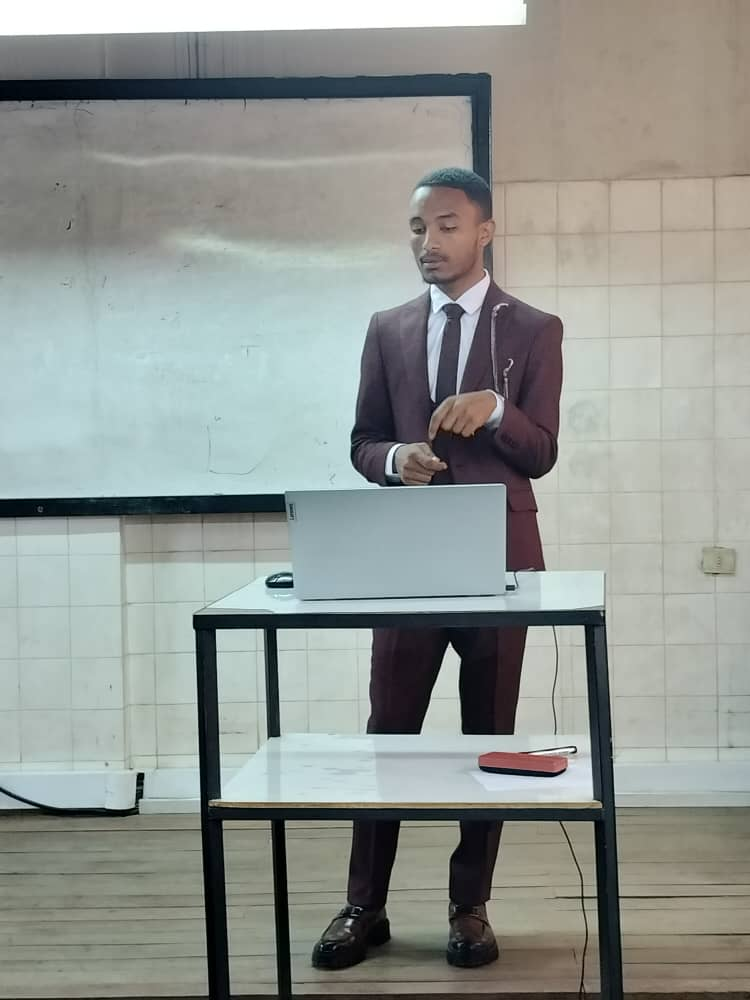
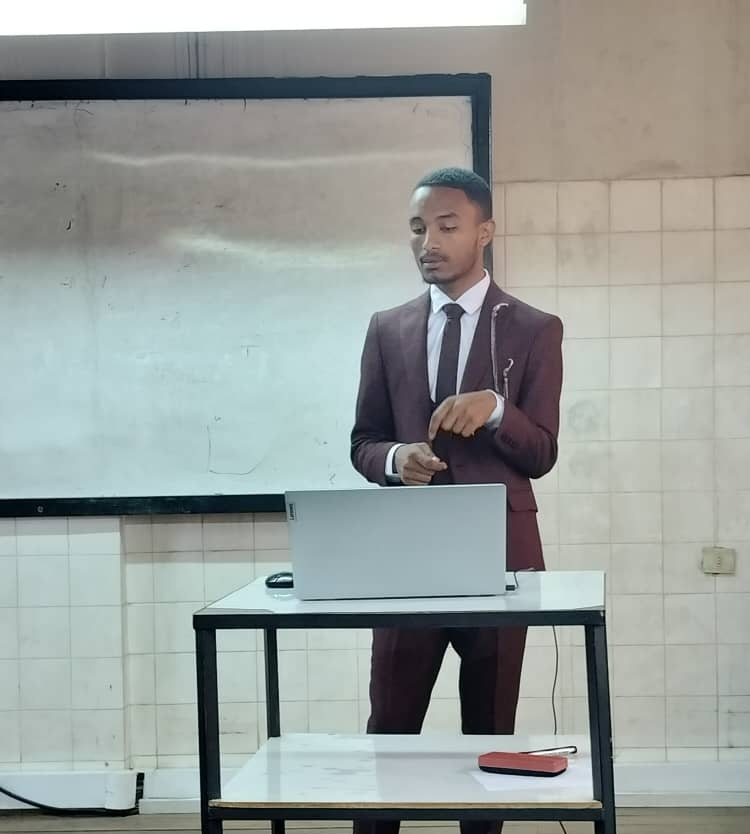
Updtaes on some pages

diff --git a/src/components/Recommendations.tsx b/src/components/Recommendations.tsx
@@ -1,5 +1,5 @@
 import { useState, useEffect } from 'react';
-import { ChevronLeft, ChevronRight, Pause, Play } from 'lucide-react';
+import { ChevronLeft, ChevronRight } from 'lucide-react';
 import Tilye from '../assets/images/ProfTileye4.jpg';
 import Ashenafi from '../assets/images/MrAshenafi1.jpg';
 import Beimnet from '../assets/images/MrsBeimnet.jpeg';
@@ -8,7 +8,7 @@ import Hermela from '../assets/images/Hermella.jpg';
 
 const Recommendations = () => {
   const [currentSlide, setCurrentSlide] = useState(0);
-  const [isPaused, setIsPaused] = useState(false); // ✅ Added pause state
+  // const [isPaused, setIsPaused] = useState(false);
 
   const recommendations = [
     {
@@ -59,14 +59,14 @@ const Recommendations = () => {
   ];
 
   useEffect(() => {
-    if (isPaused) return; // ✅ Stop auto-slide when paused
+    // if (isPaused) return;
 
     const interval = setInterval(() => {
       setCurrentSlide((prev) => (prev + 1) % recommendations.length);
     }, 6000);
 
     return () => clearInterval(interval);
-  }, [recommendations.length, isPaused]);
+  }, [recommendations.length]);
 
   const nextSlide = () => {
     setCurrentSlide((prev) => (prev + 1) % recommendations.length);
@@ -80,7 +80,7 @@ const Recommendations = () => {
     setCurrentSlide(index);
   };
 
-  const togglePause = () => setIsPaused((prev) => !prev); // ✅ Toggle play/pause
+  // const togglePause = () => setIsPaused((prev) => !prev);
 
   return (
     <div className="max-w-7xl mx-auto px-4 sm:px-6 lg:px-8">
@@ -106,14 +106,36 @@ const Recommendations = () => {
                 <div className="bg-white/5 backdrop-blur-lg rounded-2xl p-8 md:p-12 border border-white/10 mx-4">
                   <div className="grid md:grid-cols-3 gap-8 items-center">
                     {/* Recommender Info */}
-                    <div className="text-center md:text-left">
-                      <div className="relative mb-6">
-                        <img
-                          src={rec.image}
-                          alt={rec.name}
-                          className="w-32 h-32 rounded-full mx-auto md:mx-0 object-cover border-4 border-gradient-to-r from-blue-500 to-purple-600 shadow-2xl"
-                        />
-                        <div className="absolute inset-0 bg-gradient-to-r from-blue-500/20 to-purple-600/20 rounded-full animate-pulse"></div>
+                    <div className="text-center md:text-left relative">
+                      <div className="relative mb-6 flex items-center md:justify-start">
+                        {/* Circular Image */}
+                        <div className="relative z-10">
+                          <img
+                            src={rec.image}
+                            alt={rec.name}
+                            className="w-32 h-32 rounded-full object-cover border-4 border-gradient-to-r from-blue-500 to-purple-600 shadow-2xl"
+                          />
+                          <div className="absolute inset-0 bg-gradient-to-r from-blue-500/20 to-purple-600/20 rounded-full animate-pulse"></div>
+                        </div>
+
+                        {/* Cylindrical Horizontal Shadow Bar */}
+                        <div
+                          className="ml-[-2px] h-32 flex-1 relative rounded-full"
+                          style={{
+                            background: 'linear-gradient(to right, rgba(59, 130, 246, 0.3), rgba(139, 92, 246, 0.3))',
+                            boxShadow: '-100px 0 0 rgba(59, 130, 246, 0.2), 0 0 20px rgba(139, 92, 246, 0.2)',
+                          }}
+                        >
+                          {/* Fan-like highlights */}
+                          <div className="absolute top-1/2 left-0 w-full h-0.5 flex justify-between opacity-20 -translate-y-1/2">
+                            {[...Array(5)].map((_, i) => (
+                              <div
+                                key={i}
+                                className="w-1 h-4 bg-white/30 rounded-sm transform rotate-12"
+                              />
+                            ))}
+                          </div>
+                        </div>
                       </div>
 
                       <h3 className="text-2xl font-bold text-white mb-2">{rec.name}</h3>
@@ -151,39 +173,17 @@ const Recommendations = () => {
         {/* Navigation Arrows */}
         <button
           onClick={prevSlide}
-          className="absolute left-4 top-1/2 transform -translate-y-1/2 z-10 p-3 rounded-full bg-white/10 backdrop-blur-sm text-white hover:bg-white/20 transition-all duration-300"
+          className="absolute left-4 top-1/2 transform -translate-y-1/2 z-10 p-3 rounded-full bg-blue-400 backdrop-blur-sm text-white hover:bg-white/20 transition-all duration-300"
         >
           <ChevronLeft size={24} />
         </button>
         <button
           onClick={nextSlide}
-          className="absolute right-4 top-1/2 transform -translate-y-1/2 z-10 p-3 rounded-full bg-white/10 backdrop-blur-sm text-white hover:bg-white/20 transition-all duration-300"
+          className="absolute right-4 top-1/2 transform -translate-y-1/2 z-10 p-3 rounded-full bg-blue-400 backdrop-blur-sm text-white hover:bg-white/20 transition-all duration-300"
         >
           <ChevronRight size={24} />
         </button>
 
-        {/* ✅ Pause/Play Button */}
-        <button
-          onClick={togglePause}
-          className="absolute right-1/2 bottom-[-3rem] transform translate-x-1/2 z-10 p-3 rounded-full bg-blue-600 text-white hover:bg-blue-700 transition-all duration-300"
-        >
-          {isPaused ? <Play size={20} /> : <Pause size={20} />}
-        </button>
-
-        {/* Slide Indicators */}
-        <div className="flex justify-center mt-8 space-x-2">
-          {recommendations.map((_, index) => (
-            <button
-              key={index}
-              onClick={() => goToSlide(index)}
-              className={`w-3 h-3 rounded-full transition-all duration-300 ${
-                index === currentSlide
-                  ? 'bg-gradient-to-r from-blue-500 to-purple-600 scale-125'
-                  : 'bg-white/30 hover:bg-white/50'
-              }`}
-            />
-          ))}
-        </div>
       </div>
 
       {/* Additional Testimonials Preview */}

diff --git a/src/components/Portfolio.tsx b/src/components/Portfolio.tsx
@@ -1,4 +1,4 @@
-import { useState } from 'react';
+import { useState, useEffect, useRef } from 'react';
 import Netflix from '../assets/images/Netflix.png';
 import Amazon from '../assets/images/amazon.jpg';
 import Evangadi from '../assets/images/Evangadi-forum.png';
@@ -6,9 +6,12 @@ import Employee from '../assets/images/Employee.png';
 import Expense from '../assets/images/Expense-tracker.png';
 import Landing from '../assets/images/nextjs.png';
 
-
 const Portfolio = () => {
   const [activeFilter, setActiveFilter] = useState('all');
+  const [activeCard, setActiveCard] = useState<number | null>(null);
+
+  // ✅ Typed ref fix: tell TS what kind of elements the array will hold
+  const projectRefs = useRef<(HTMLDivElement | null)[]>([]);
 
   const projects = [
     {
@@ -78,6 +81,41 @@ const Portfolio = () => {
     ? projects
     : projects.filter(project => project.category === activeFilter);
 
+  // Ensure projectRefs.current length matches filteredProjects length
+  useEffect(() => {
+    projectRefs.current = projectRefs.current.slice(0, filteredProjects.length);
+  }, [filteredProjects]);
+
+  // Scroll detection for mobile: find the card closest to vertical center and mark it active
+  useEffect(() => {
+    const handleScroll = () => {
+      if (window.innerWidth > 768) return; // only apply on mobile sizes
+      let closestIndex: number | null = null;
+      let closestOffset = Infinity;
+
+      projectRefs.current.forEach((el, idx) => {
+        if (!el) return;
+        const rect = el.getBoundingClientRect();
+        const offset = Math.abs(rect.top + rect.height / 2 - window.innerHeight / 2);
+        if (offset < closestOffset) {
+          closestOffset = offset;
+          closestIndex = idx;
+        }
+      });
+
+      setActiveCard(closestIndex);
+    };
+
+    handleScroll();
+    window.addEventListener('scroll', handleScroll, { passive: true });
+    window.addEventListener('resize', handleScroll);
+
+    return () => {
+      window.removeEventListener('scroll', handleScroll);
+      window.removeEventListener('resize', handleScroll);
+    };
+  }, [filteredProjects]);
+
   return (
     <div className="max-w-7xl mx-auto px-4 sm:px-6 lg:px-8">
       <div className="text-center mb-16">
@@ -111,12 +149,12 @@ const Portfolio = () => {
         {filteredProjects.map((project, index) => (
           <div
             key={index}
+            ref={(el) => { projectRefs.current[index] = el; }}
             className="group bg-white/5 backdrop-blur-lg rounded-2xl overflow-hidden border border-white/10 hover:bg-white/10 transition-all duration-500 transform hover:scale-105 hover:shadow-2xl"
             style={{
               animationDelay: `${index * 100}ms`
             }}
           >
-            {/* Project Image */}
             <div className="relative overflow-hidden">
               <img
                 src={project.image}
@@ -125,18 +163,20 @@ const Portfolio = () => {
               />
               <div className="absolute inset-0 bg-gradient-to-t from-black/50 to-transparent opacity-0 group-hover:opacity-100 transition-opacity duration-300"></div>
 
-              {/* Project Links Overlay */}
-              <div className="absolute inset-0 flex items-center justify-center opacity-0 group-hover:opacity-100 transition-opacity duration-300">
+              <div className={`absolute inset-0 flex items-center justify-center transition-opacity duration-300
+                ${activeCard === index ? 'opacity-100' : 'opacity-0 group-hover:opacity-100'}`}>
                 <div className="flex space-x-4">
                   <a
                     href={project.demoUrl}
-                    className="px-4 py-2 bg-blue-500 text-white rounded-lg hover:bg-blue-600 transition-colors duration-300"
+                    className={`px-4 py-2 bg-blue-500 text-white rounded-lg transition-colors duration-300
+                      ${activeCard === index ? 'bg-blue-600' : 'hover:bg-blue-600'}`}
                   >
                     Demo
                   </a>
                   <a
                     href={project.codeUrl}
-                    className="px-4 py-2 bg-purple-500 text-white rounded-lg hover:bg-purple-600 transition-colors duration-300"
+                    className={`px-4 py-2 bg-purple-500 text-white rounded-lg transition-colors duration-300
+                      ${activeCard === index ? 'bg-purple-600' : 'hover:bg-purple-600'}`}
                   >
                     Code
                   </a>
@@ -144,7 +184,6 @@ const Portfolio = () => {
               </div>
             </div>
 
-            {/* Project Content */}
             <div className="p-6">
               <h3 className="text-xl font-bold text-white mb-3 group-hover:text-transparent group-hover:bg-gradient-to-r group-hover:bg-clip-text group-hover:from-blue-400 group-hover:to-purple-600 transition-all duration-300">
                 {project.title}
@@ -154,7 +193,6 @@ const Portfolio = () => {
                 {project.description}
               </p>
 
-              {/* Technologies */}
               <div className="flex flex-wrap gap-2">
                 {project.technologies.map((tech, techIndex) => (
                   <span
@@ -170,7 +208,6 @@ const Portfolio = () => {
         ))}
       </div>
 
-      {/* GitHub Profile Link */}
       <div className="text-center mt-16">
         <div className="bg-gradient-to-r from-blue-500/20 to-purple-600/20 backdrop-blur-lg rounded-2xl p-8 border border-white/10">
           <h3 className="text-3xl font-bold text-white mb-4">Explore More Projects</h3>

diff --git a/src/components/About.css b/src/components/About.css
@@ -1,15 +1,15 @@
 .animated-luminous::before {
   content: '';
   position: absolute;
-  inset: -60%;
+  inset: -200%;
   background: conic-gradient(
     from 0deg,
-    rgba(0, 255, 255, 0.8),
-    rgba(0, 128, 255, 0.9),
-    rgba(0, 0, 128, 0.6),
-    rgba(255, 255, 255, 0.5),
-    rgba(0, 255, 255, 0.9),
-    rgba(0, 128, 255, 0.7)
+    rgba(0, 255, 0, 0.8),      /* Bright Green */
+    rgba(255, 255, 0, 0.9),    /* Vibrant Yellow */
+    rgba(0, 128, 255, 0.9),    /* Sky Blue */
+    rgba(0, 255, 255, 0.1),    /* Cyan Touch */
+    rgba(0, 255, 0, 0.9),      /* Green again for continuity */
+    rgba(0, 128, 255, 0.7)     /* Blue fade end */
   );
   filter: blur(60px) saturate(2.5) brightness(2);
   mix-blend-mode: screen;
@@ -25,9 +25,10 @@
   inset: -55%;
   background: radial-gradient(
     circle,
-    rgba(0, 255, 255, 0.3) 0%,
-    rgba(0, 100, 255, 0.15) 35%,
-    transparent 70%
+    rgba(0, 255, 0, 0.3) 0%,        /* Soft green center glow */
+    rgba(255, 255, 0, 0.2) 35%,     /* Yellow mid glow */
+    rgba(0, 128, 255, 0.15) 55%,    /* Blue edge fade */
+    transparent 75%
   );
   filter: blur(80px);
   border-radius: 50%;
@@ -75,5 +76,23 @@
   100% {
     transform: rotate(-360deg) scale(1);
     opacity: 0.8;
+  }
+}
+
+@keyframes floaty {
+  0% {
+    transform: translateY(0px) scale(1);
+  }
+  25% {
+    transform: translateY(-6px) scale(1.01);
+  }
+  50% {
+    transform: translateY(3px) scale(0.99);
+  }
+  75% {
+    transform: translateY(-4px) scale(1.02);
+  }
+  100% {
+    transform: translateY(0px) scale(1);
   }
 }

diff --git a/src/App.tsx b/src/App.tsx
@@ -17,7 +17,7 @@ const Index = () => {
 
   useEffect(() => {
     const handleScroll = () => {
-      const sections = ['home', 'about', 'resume', 'skills', 'services', 'portfolio', 'blogs', 'recommendations', 'contact'];
+      const sections = ['home', 'about', 'resume', 'research', 'services', 'portfolio', 'blogs', 'recommendations', 'gallery','contact'];
       const scrollPosition = window.scrollY + 100;
 
       for (const section of sections) {

diff --git a/src/components/Navigation.tsx b/src/components/Navigation.tsx
@@ -18,7 +18,9 @@ const Navigation: React.FC<NavigationProps> = ({ activeSection }) => {
     { id: 'portfolio', label: 'Portfolio' },
     { id: 'blogs', label: 'Blogs' },
     { id: 'recommendations', label: 'Recommendations' },
+    { id: 'gallery', label: 'Gallery' },
     { id: 'contact', label: 'Contact' },
+
   ];
 
   const scrollToSection = (sectionId: string) => {
